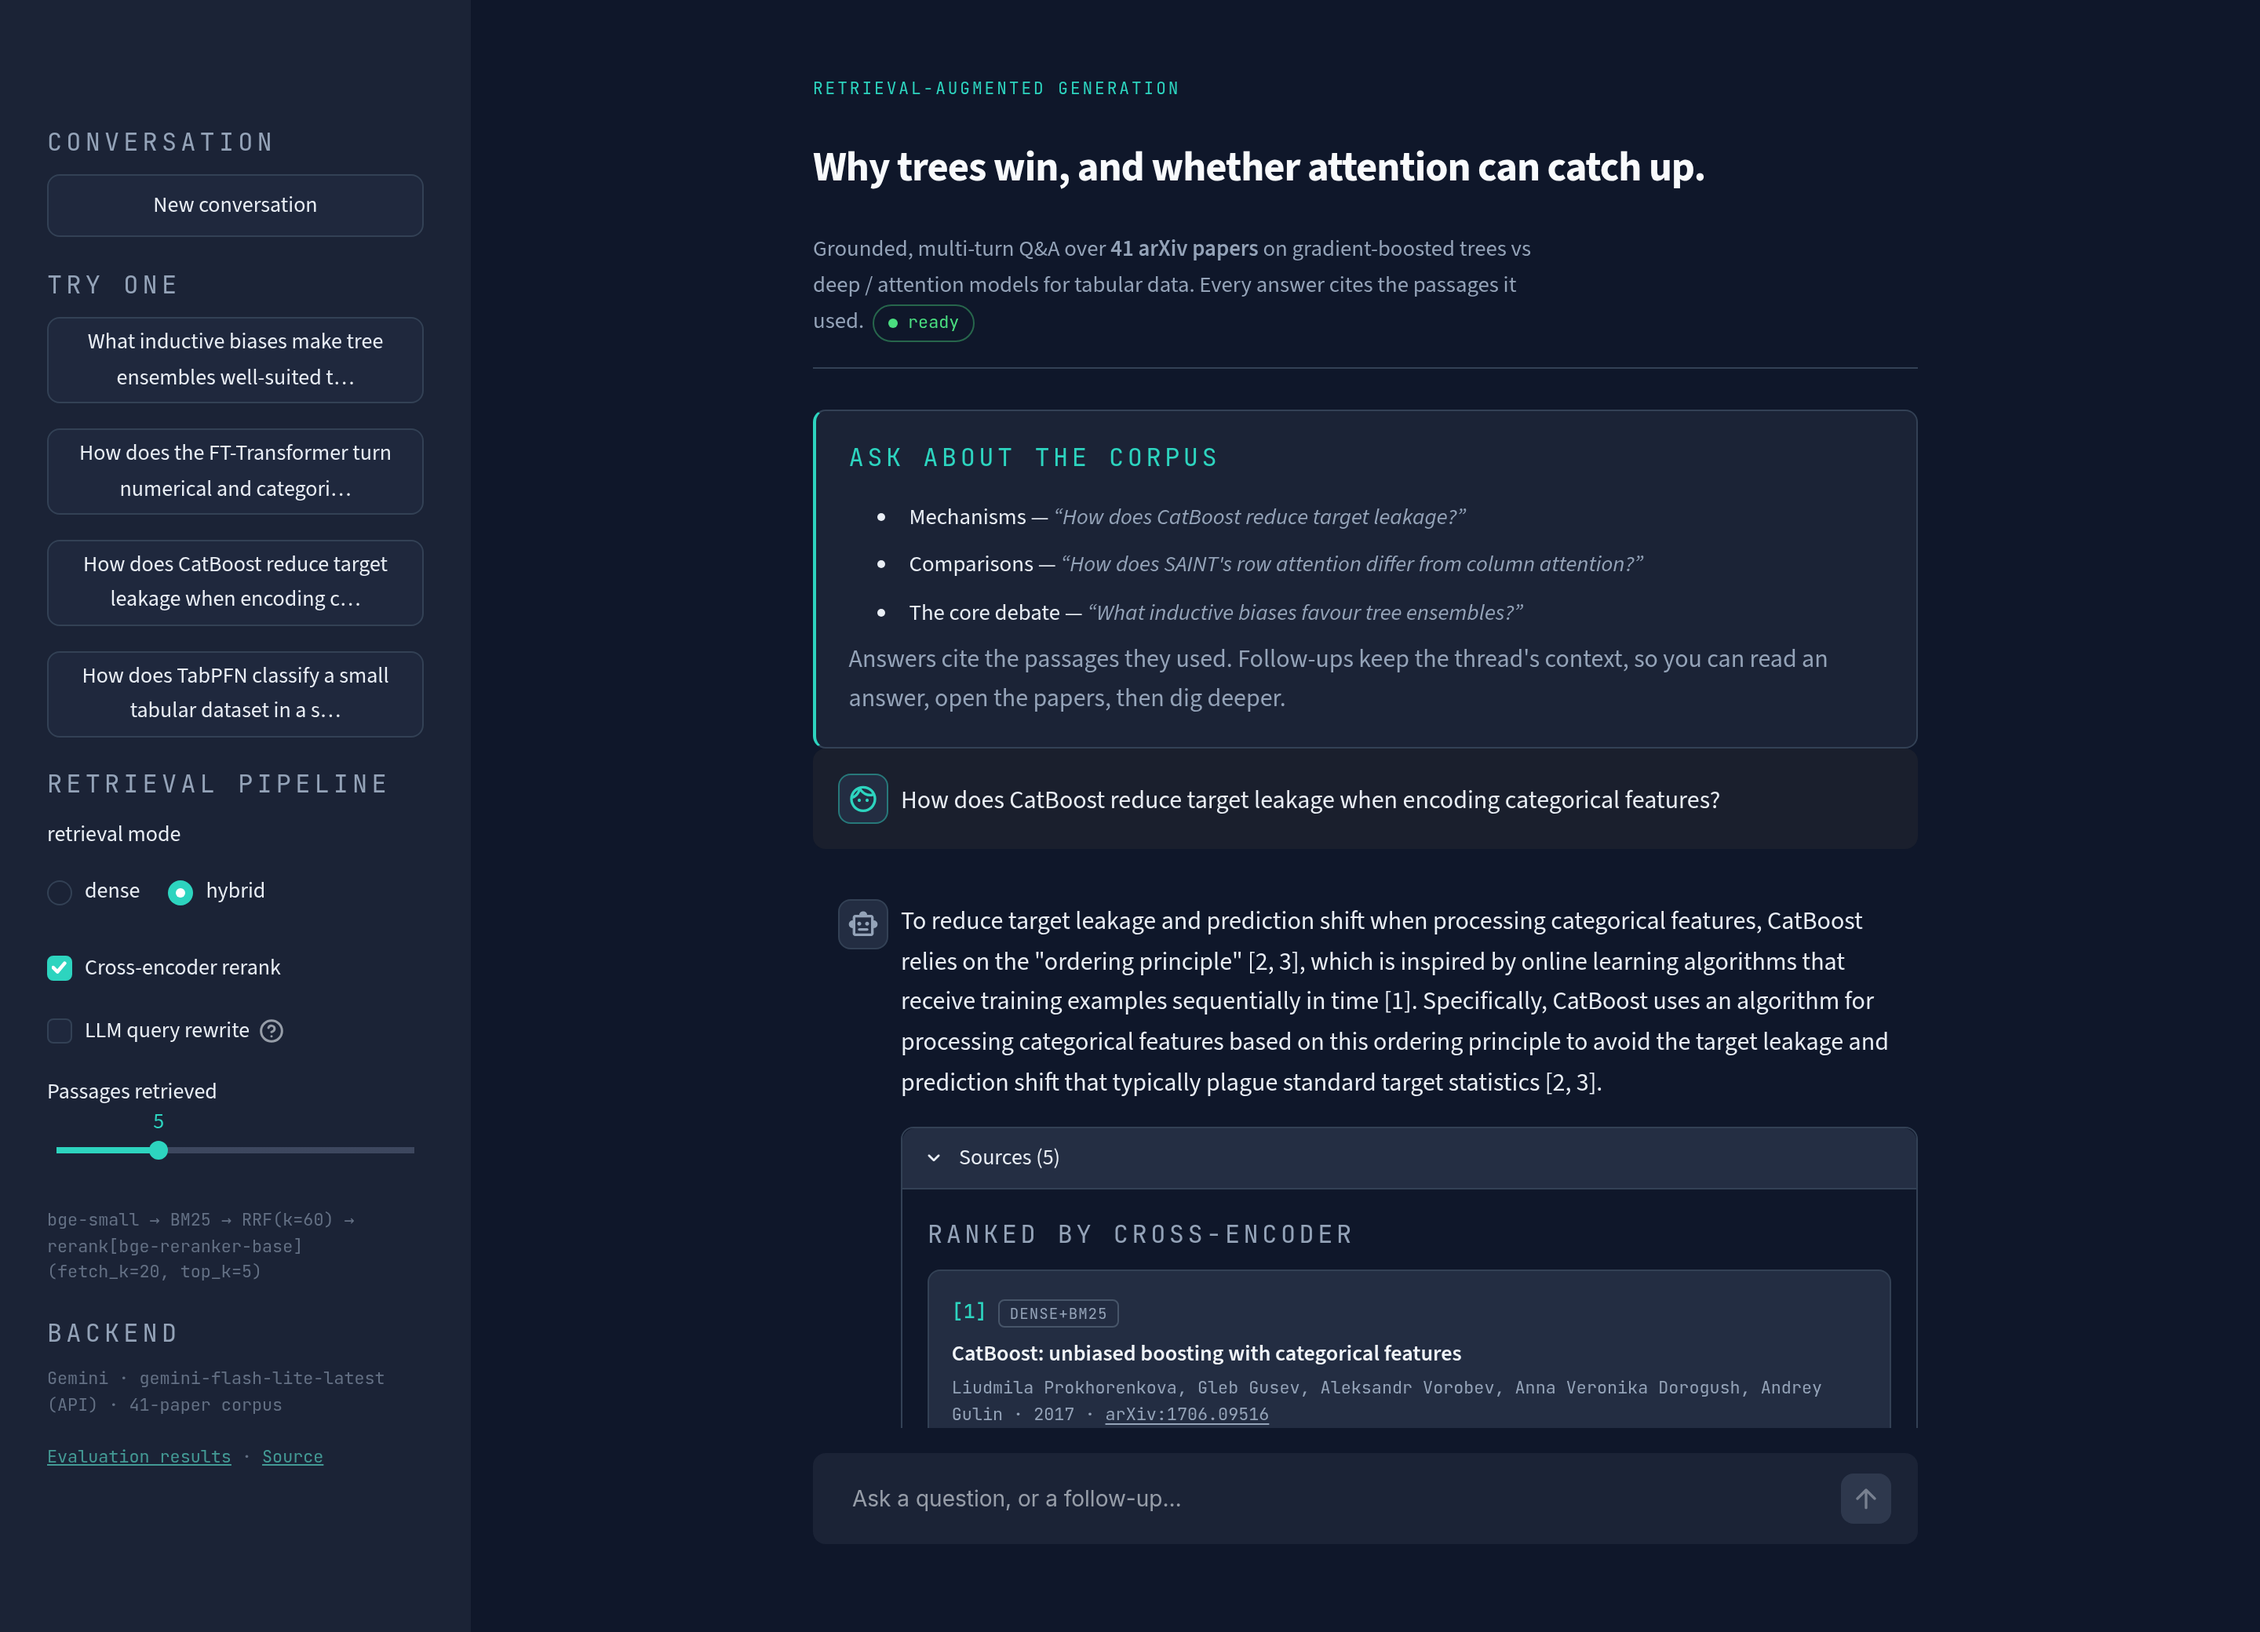
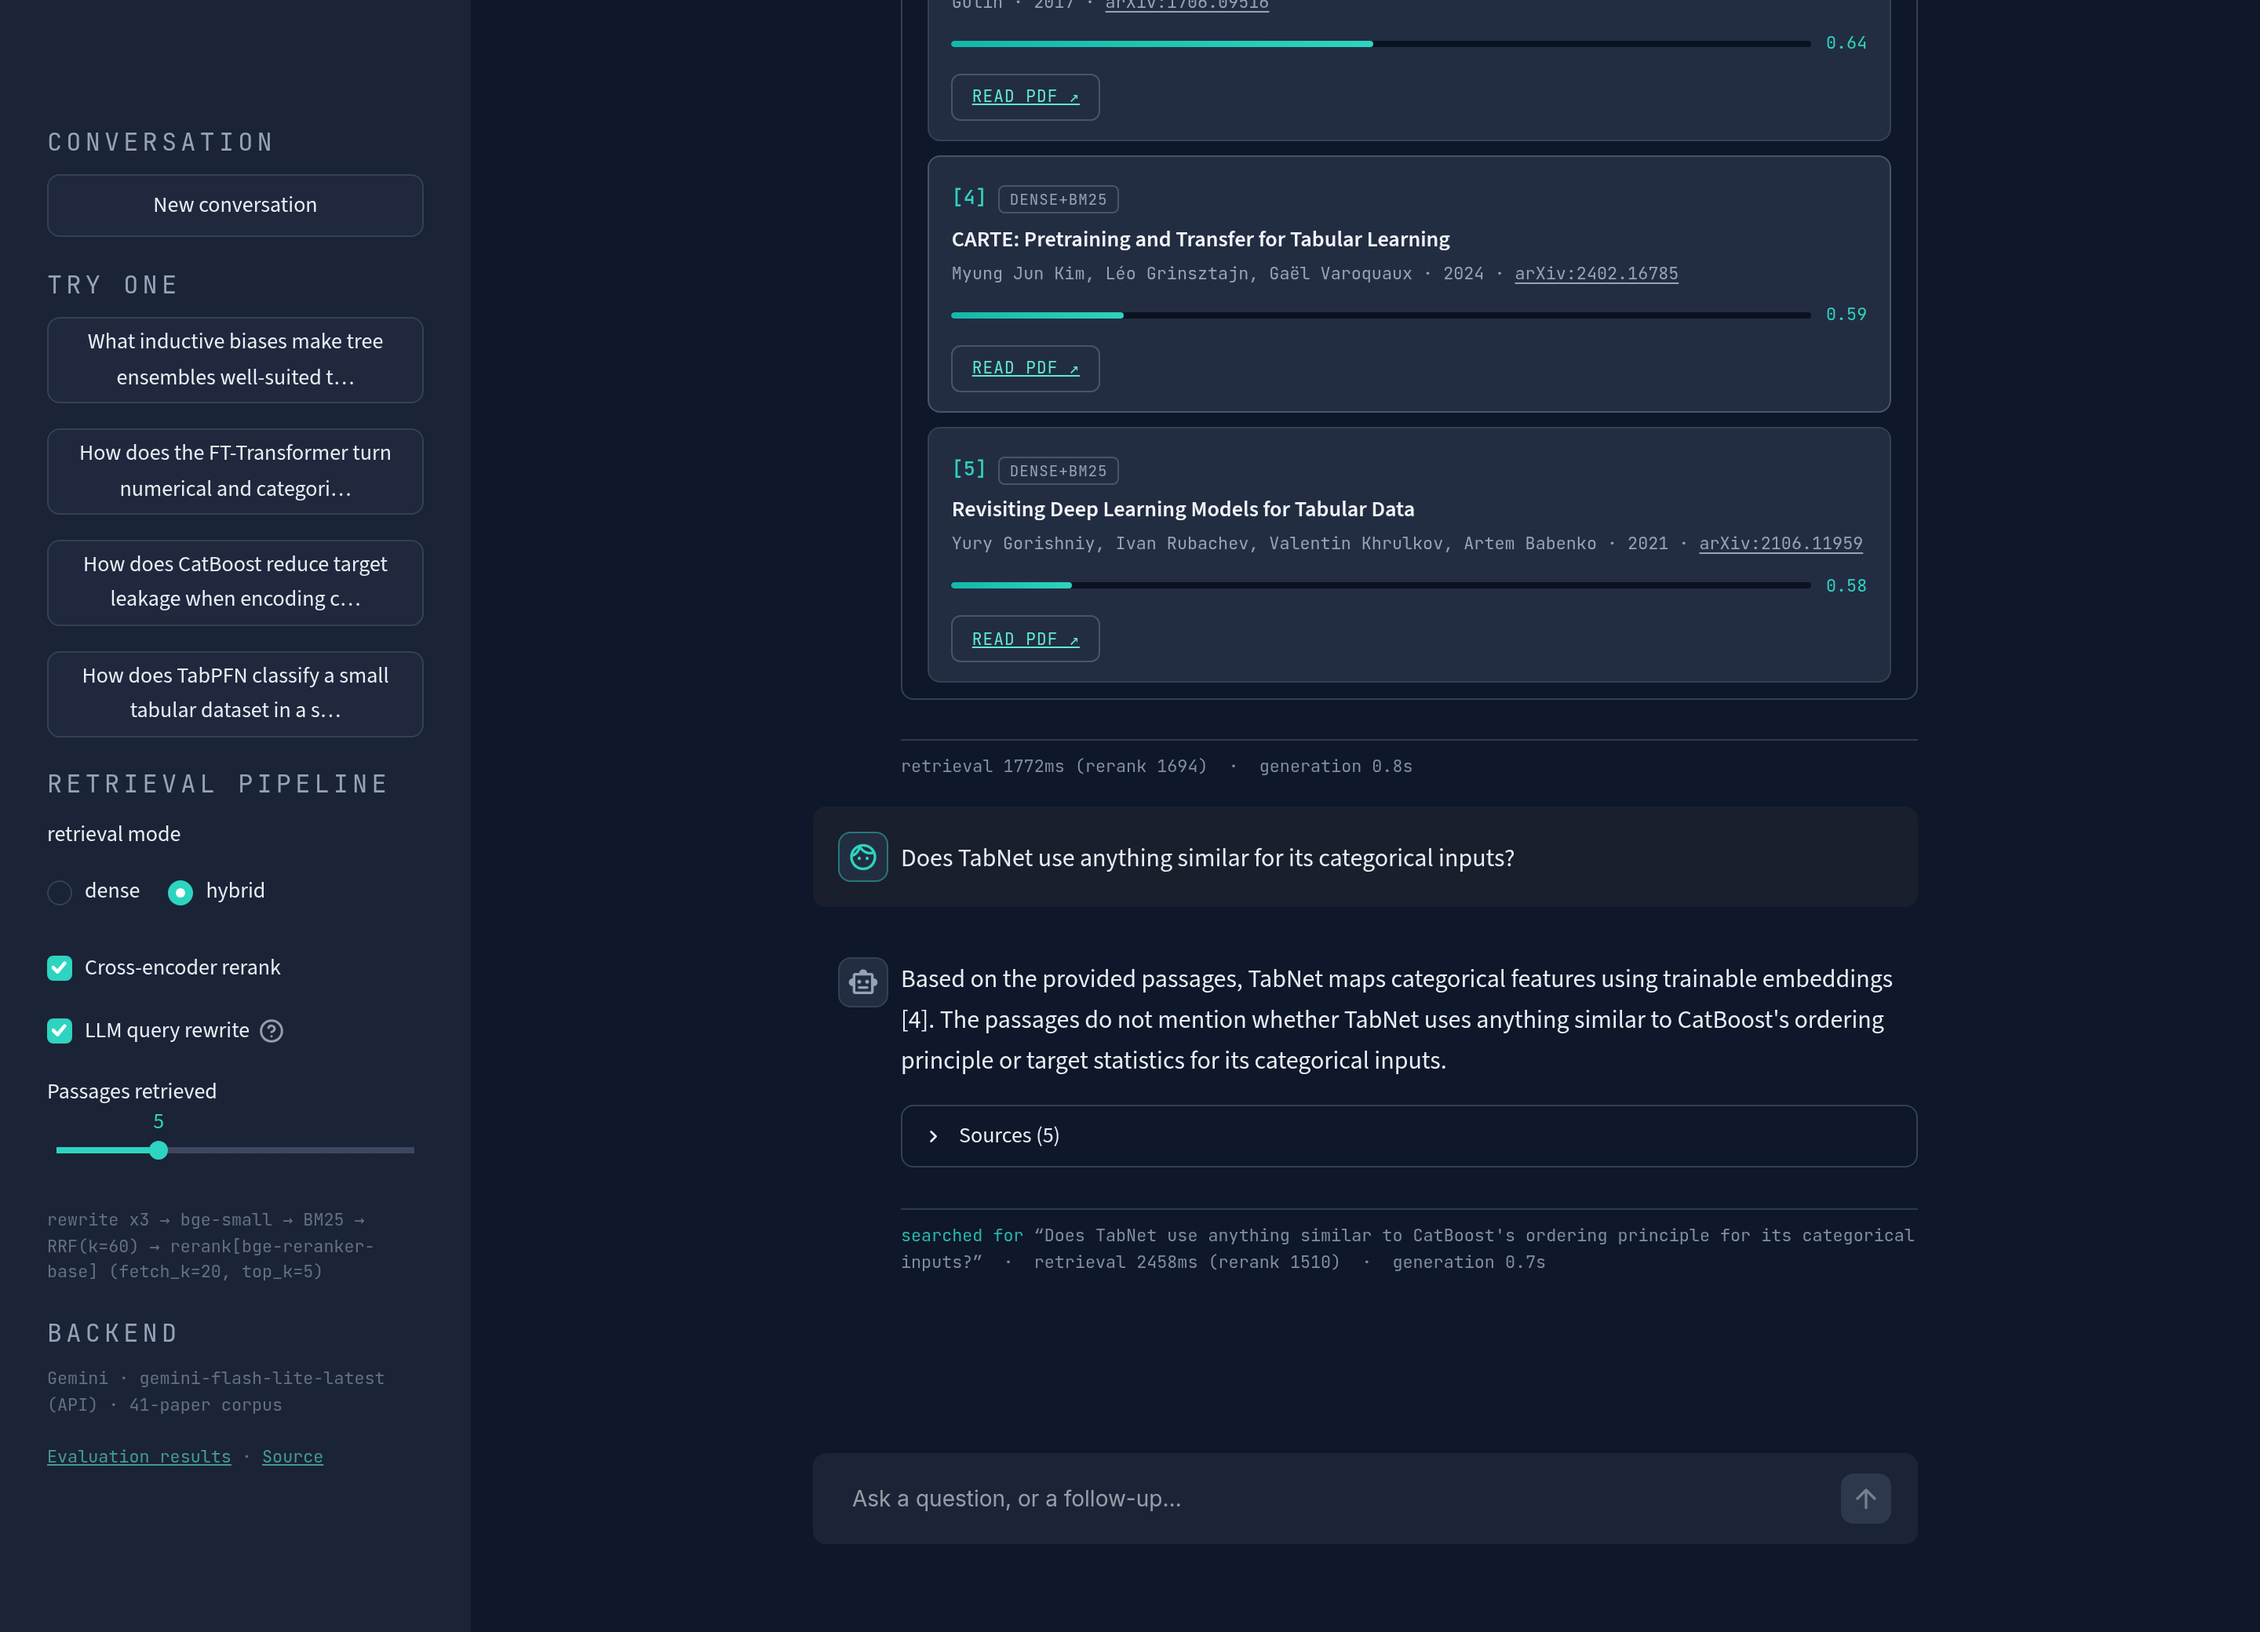
Harden the build for Streamlit Cloud; refresh docs and screenshots
The deploy would very likely have failed on the free tier as configured:

- requirements.txt pulled PyPI's default torch, which is the CUDA build
  (~1.2 GB installed) and blows the free tier's build/disk budget. Now pinned
  to torch==2.9.1+cpu from PyTorch's CPU index. Nothing here uses a GPU.
- arxiv and pymupdf are needed only by ingest.py -- verified by AST-walking
  every serving module -- so they moved to requirements-ingest.txt. The hosted
  app never ingests; the store ships prebuilt and is extracted at boot.
- requirements-dev.txt now layers on top of the ingest set.

- DEPLOY.md: real deployment guidance instead of optimism. bge-reranker-base
  needs ~1.1 GB of RAM and does not fit the free tier, so the documented Cloud
  config uses the ~90 MB MiniLM cross-encoder, with RERANK=false as the
  fallback -- and notes that dense-only still scores hit@5 0.950 / MRR 0.878,
  so degrading is defensible rather than broken. Added a troubleshooting table
  keyed on the symptoms each misconfiguration actually produces.

- scripts/shoot_ui.py: drives the running app in a real browser (Playwright) --
  types a question, waits for the streamed answer, opens the sources panel,
  asks a follow-up, asserts the citation/telemetry markers rendered, then
  screenshots. It's an end-to-end smoke test that happens to produce the README
  images, so a pretty-but-wrong screenshot fails instead of shipping. Exposed
  as `make shots`.
[…]

diff --git a/scripts/shoot_ui.py b/scripts/shoot_ui.py
@@ -1,0 +1,103 @@
+#!/usr/bin/env python3
+"""
+Drive the running Streamlit app with a real browser and capture screenshots.
+
+This doubles as an end-to-end smoke test: it types a question, waits for the
+streamed answer, opens the sources panel, then asks a follow-up -- so if the
+chat, retrieval or citation rendering is broken, this fails instead of
+producing a pretty but wrong picture.
+
+Usage:
+    make app              # in one shell
+    python scripts/shoot_ui.py            # in another
+    python scripts/shoot_ui.py --url http://localhost:8501 --out docs/img
+
+Requires:  pip install -r requirements-dev.txt   (playwright)
+           playwright install chromium           (or pass --chrome /usr/bin/google-chrome)
+"""
+
+from __future__ import annotations
+
+import argparse
+import sys
+from pathlib import Path
+
+from playwright.sync_api import sync_playwright
+
+# Streamlit scrolls an inner container, not the window.
+SCROLL_TOP = """
+() => {
+  document.querySelectorAll('*').forEach(e => {
+    if (e.scrollHeight > e.clientHeight + 50 && e.clientHeight > 300) e.scrollTop = 0;
+  });
+  window.scrollTo(0, 0);
+}
+"""
+
+Q1 = "How does CatBoost reduce target leakage when encoding categorical features?"
+Q2 = "Does TabNet use anything similar for its categorical inputs?"
+
+
+def main() -> int:
+    ap = argparse.ArgumentParser(description=__doc__)
+    ap.add_argument("--url", default="http://localhost:8501")
+    ap.add_argument("--out", default="docs/img", type=Path)
+    ap.add_argument("--chrome", default=None, help="path to a Chrome/Chromium binary")
+    ap.add_argument("--timeout", type=int, default=240_000, help="ms to wait for the model")
+    args = ap.parse_args()
+    args.out.mkdir(parents=True, exist_ok=True)
+
+    launch = {"args": ["--no-sandbox", "--disable-dev-shm-usage"]}
+    if args.chrome:
+        launch["executable_path"] = args.chrome
+
+    with sync_playwright() as p:
+        browser = p.chromium.launch(**launch)
+        pg = browser.new_page(viewport={"width": 1440, "height": 1040}, device_scale_factor=2)
+
+        pg.goto(args.url, wait_until="domcontentloaded", timeout=120_000)
+        pg.wait_for_selector("text=Why trees win", timeout=args.timeout)  # app is warm
+        pg.wait_for_timeout(1500)
+        pg.screenshot(path=str(args.out / "app-empty.png"))
+        print(f"✓ empty state          -> {args.out / 'app-empty.png'}")
+
+        def ask(text: str, expect_turns: int) -> None:
+            box = pg.locator('[data-testid="stChatInput"] textarea')
+            box.fill(text)
+            box.press("Enter")
+            pg.wait_for_function(
+                f"() => document.body.innerText.split('Sources (').length > {expect_turns}",
+                timeout=args.timeout,
+            )
+            pg.wait_for_timeout(2500)
+
+        ask(Q1, 1)
+        print("✓ answered              ", Q1[:52] + "…")
+        ask(Q2, 2)
+        print("✓ follow-up answered    ", Q2[:52] + "…")
+
+        body = pg.inner_text("body")
+        for marker in ("Sources (", "retrieval ", "generation "):
+            if marker not in body:
+                print(f"✗ expected {marker!r} in the rendered page", file=sys.stderr)
+                browser.close()
+                return 1
+        # Soft check: the condenser only annotates the turn when it actually
+        # rewrote the follow-up, and it falls back to the raw question if the
+        # LLM call fails. Informative, not a failure.
+        print("✓ condensed follow-up   " if "searched for" in body
+              else "· follow-up used verbatim (condenser returned it unchanged)")
+
+        pg.locator("text=/Sources \\(/").first.click()  # open turn 1's citations
+        pg.wait_for_timeout(1200)
+        pg.evaluate(SCROLL_TOP)
+        pg.wait_for_timeout(700)
+        pg.screenshot(path=str(args.out / "app.png"))
+        print(f"✓ conversation + sources -> {args.out / 'app.png'}")
+
+        browser.close()
+    return 0
+
+
+if __name__ == "__main__":
+    raise SystemExit(main())

diff --git a/DEPLOY.md b/DEPLOY.md
@@ -1,45 +1,69 @@
 # Deploying the demo (Streamlit Community Cloud)
 
-One-time setup. Free tier: ~1 GB RAM, CPU only, sleeps after inactivity.
+One-time setup, ~10 minutes. Free tier: CPU only, ~1 GB RAM, sleeps when idle.
 
 ### 1. Prerequisites
-- The repo is pushed to GitHub **with Git LFS objects** (the vector store tarball).
-  Verify: `git lfs ls-files` shows `data/chroma.tar.gz`, and the file on GitHub
-  shows as an LFS pointer, not 17 MB of binary.
+- Repo pushed to GitHub **with its Git LFS object** — the prebuilt vector store.
+  Verify: `git lfs ls-files` lists `data/chroma.tar.gz`, and on github.com the
+  file shows as an LFS pointer (not raw binary).
 - A free Gemini API key: <https://aistudio.google.com/apikey>
 
 ### 2. Create the app
-1. Go to <https://share.streamlit.io> → **New app** → pick this repo / branch.
-2. **Main file path:** `streamlit_app.py` (repo root) — or `src/app.py`, both work.
-3. **Advanced settings → Python version:** 3.11.
+1. <https://share.streamlit.io> → **Create app** → **Deploy from GitHub**.
+2. Repository `Arsalan-007/rag-tabular-assistant`, branch `main`.
+3. **Main file path:** `streamlit_app.py` (repo root). `src/app.py` also works.
+4. **Advanced settings → Python version: 3.12.** (`requirements.txt` pins a
+   CPU torch wheel that exists for cp311/cp312. Not 3.13.)
 
 ### 3. Secrets
-In the app's **Settings → Secrets**, paste (see `.streamlit/secrets.toml.example`):
+**Settings → Secrets**, paste (template in `.streamlit/secrets.toml.example`):
 
 ```toml
-GENERATOR = "gemini"
+GENERATOR      = "gemini"
 GEMINI_API_KEY = "..."
-GEMINI_MODEL = "gemini-flash-lite-latest"
+GEMINI_MODEL   = "gemini-flash-lite-latest"
+
+# The default reranker (bge-reranker-base, ~1.1 GB in memory) does NOT fit the
+# free tier. Use the small cross-encoder instead -- ~90 MB, still a real
+# reranker, only a little weaker.
+RERANKER_MODEL = "cross-encoder/ms-marco-MiniLM-L-6-v2"
 ```
 
-Optional, if the ~2 s/query reranker is too slow on the free tier:
+If the app still gets OOM-killed, turn reranking off entirely:
 
 ```toml
 RERANK = "false"
 ```
 
+That is a defensible fallback, not a broken one: dense-only retrieval still
+scores **hit@5 0.950 / MRR 0.878** on the eval set (see `eval/results.md`) —
+reranking mainly buys hit@3 and hit@10.
+
 ### 4. Deploy
-Click **Deploy**. First build takes a few minutes: it installs
-`requirements.txt`, pulls the LFS tarball, and downloads the embedding +
-reranker models (~1.3 GB, cached afterwards). `store.ensure_store()` extracts
-the tarball on first request — no ingestion runs on the server.
+First build takes several minutes: it installs `requirements.txt` (serving deps
+only — the ingestion packages are in `requirements-ingest.txt` and are skipped),
+pulls the LFS tarball, and downloads the embedding + reranker models. On boot
+`store.ensure_store()` extracts the tarball; **no ingestion runs on the server.**
 
 ### 5. Verify
-- The status pill in the masthead reads **ready**.
-- The telemetry line shows `generator  Gemini · gemini-flash-lite-latest (API)`.
-- Ask an example question; sources appear with scores and `dense` / `bm25` tags.
+- Masthead status pill reads **ready**.
+- Sidebar → Backend shows `Gemini · gemini-flash-lite-latest (API)`.
+- Ask an example question: the answer streams, cites `[1] [2]`, and the
+  **Sources** panel lists papers with `dense` / `bm25` tags and score bars.
+- Ask a follow-up ("how does that compare to X?") — the turn footer should show
+  `searched for "<the condensed standalone question>"`.
 
 ### Updating
-Push to the deployed branch — Streamlit Cloud redeploys automatically.
-If you rebuilt the store (`make ingest`), commit the new `data/chroma.tar.gz`
-(LFS) and it ships on the next deploy.
+Push to `main`; Streamlit Cloud redeploys automatically. If you rebuilt the
+store (`make ingest`), commit the regenerated `data/chroma.tar.gz` (LFS) and it
+ships on the next deploy.
+
+### Troubleshooting
+
+| Symptom | Cause / fix |
+|---|---|
+| Build fails downloading torch, or runs out of disk | Python version isn't 3.11/3.12 — the `+cpu` wheel pin has no wheel for it. Set 3.12 in Advanced settings. |
+| App restarts on the first question | OOM from the reranker. Set `RERANKER_MODEL` to the MiniLM cross-encoder, or `RERANK = "false"`. |
+| Status pill shows `GEMINI_API_KEY is not set` | Secrets not saved, or the key name differs. It must be exactly `GEMINI_API_KEY`. |
+| `No vector store … and no tarball` | LFS object didn't come through. Check `data/chroma.tar.gz` on github.com is a pointer file and LFS is enabled for the repo. |
+| Answers say "the passages do not contain…" a lot | Expected for questions outside the 41 papers — the low-confidence banner should also appear. Not a bug. |
